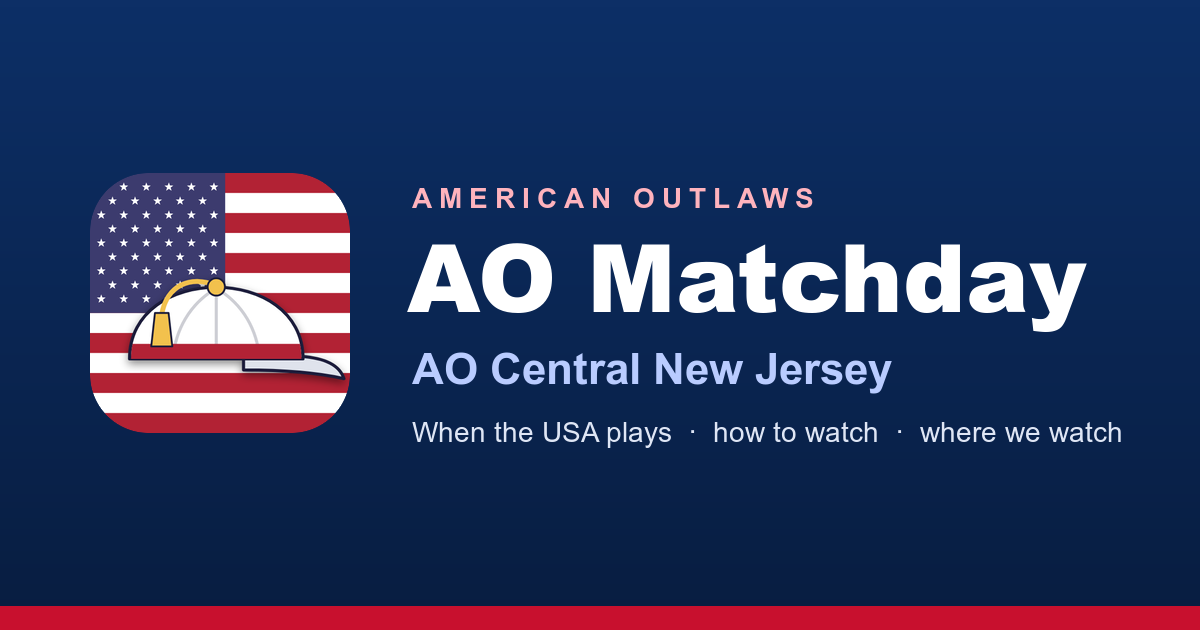
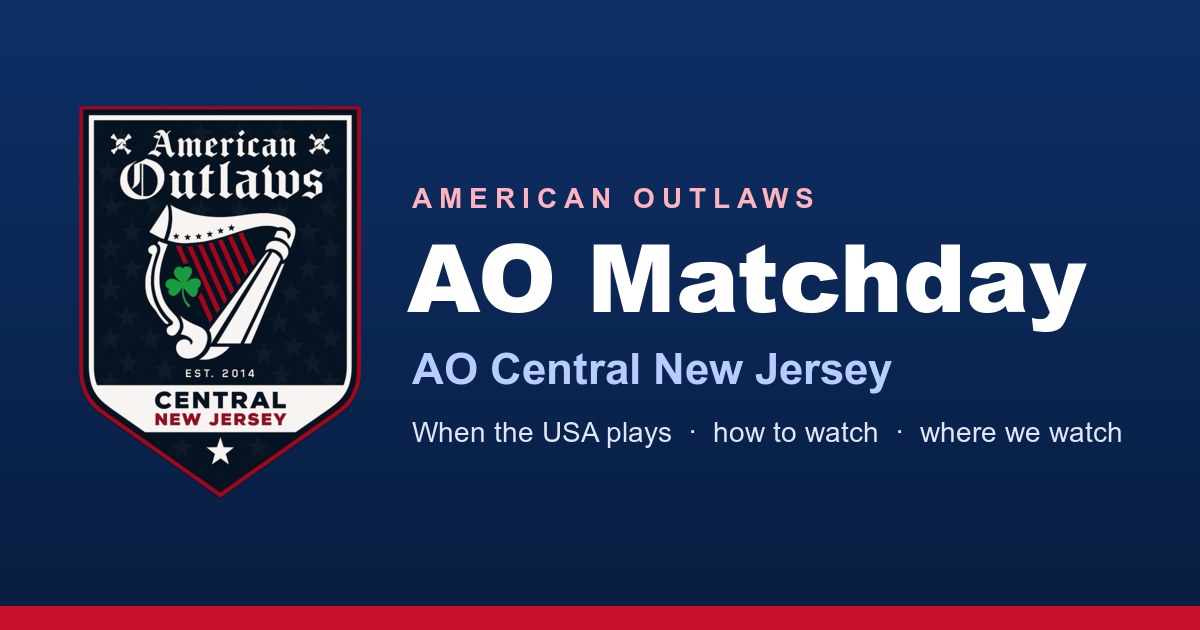
AO Matchday: the chapter's harp crest is the app's picture
The chapter's president asked for AO Central New Jersey's own crest to be
the app's logo. It replaces Cap Day's cap as the home-screen icon, the
browser-tab icon and the picture shown when the link is shared.

- New files: ao-icon-192.png, ao-icon-512.png, ao-touch-icon.png, and
  ao-icon-maskable.png (the crest smaller on its navy square, so Android
  can cut it to a circle without clipping it).
- ao-og.png: the same share picture with the crest where the cap was.
- ao.html (through build-ao.mjs), worldcup.html, privacy.html and
  ao-sign.html use the new icons; so does the World Cup kickoff notice.
- Service worker cache v12, with the new icons kept for offline use.
- Cap Day's own pictures stay with index.html.
- A test reads the icon files' pixels: right sizes, navy to the corners,
  no see-through parts, and the Android icon's crest inside the circle.
- Starts 0.3.0-pre.

Changed region(s): [[0.0617, 0.1508, 0.3083, 0.7841]]

diff --git a/worldcup.html b/worldcup.html
@@ -12,7 +12,8 @@
 <meta name="apple-mobile-web-app-capable" content="yes">
 <meta name="apple-mobile-web-app-status-bar-style" content="default">
 <meta name="apple-mobile-web-app-title" content="AO Matchday">
-<link rel="apple-touch-icon" href="apple-touch-icon.png">
+<link rel="icon" href="ao-icon-192.png">
+<link rel="apple-touch-icon" href="ao-touch-icon.png">
 <!-- Search + social share preview -->
 <meta name="description" content="The FIFA World Cup, men's and women's — the complete 2026 tournament preserved in full (every match, scorer, card and shootout), FIFA world rankings kept current, and every World Cup since 1930.">
 <meta property="og:type" content="website">
@@ -3996,7 +3997,7 @@ function armKickReminder(){
       const g=matchTeamsStr(nx.m),f=fmtInstant(nx.ts);
       new Notification("⚽ Kickoff in 15 minutes",{
         body:g+" — "+f.time+" "+f.tz+" · "+roundLabel(nx.m.r)+" · "+String(nx.s.city).split(",")[0],
-        tag:"kick-"+nx.ts, icon:"apple-touch-icon.png"
+        tag:"kick-"+nx.ts, icon:"ao-touch-icon.png"
       });
     }catch(e){}
     armKickReminder();                       // chain to the following fixture

diff --git a/sw.js b/sw.js
@@ -4,8 +4,8 @@
    last-cached app shell. Live score APIs (ESPN) are cross-origin
    and are never intercepted or cached — they always go straight to the network
    and degrade gracefully on their own when offline. */
-const CACHE = "wc2026-v11";
-const SHELL = ["./", "./index.html", "./js/core.js", "./js/facts.js", "./js/qr.js", "./ao.html", "./js/ao.js", "./ao.webmanifest", "./ao-qr.svg", "./worldcup.html", "./manifest.webmanifest", "./apple-touch-icon.png", "./icon-192.png", "./qr.svg"];
+const CACHE = "wc2026-v12";
+const SHELL = ["./", "./index.html", "./js/core.js", "./js/facts.js", "./js/qr.js", "./ao.html", "./js/ao.js", "./ao.webmanifest", "./ao-qr.svg", "./worldcup.html", "./manifest.webmanifest", "./apple-touch-icon.png", "./icon-192.png", "./ao-touch-icon.png", "./ao-icon-192.png", "./qr.svg"];
 
 self.addEventListener("install", function (e) {
   self.skipWaiting(); // activate this version immediately

diff --git a/ao.html b/ao.html
@@ -22,8 +22,8 @@
 <meta name="mobile-web-app-capable" content="yes">
 <meta name="apple-mobile-web-app-capable" content="yes">
 <meta name="apple-mobile-web-app-title" content="AO Matchday">
-<link rel="icon" href="icon-192.png">
-<link rel="apple-touch-icon" href="apple-touch-icon.png">
+<link rel="icon" href="ao-icon-192.png">
+<link rel="apple-touch-icon" href="ao-touch-icon.png">
 <script>
 /* Same theme preference as the World Cup app: saved choice, else the system's. */
 (function(){try{var p=JSON.parse(localStorage.getItem("wc2026.prefs.v1")||"{}");var t=p.theme;

diff --git a/js/core.js b/js/core.js
@@ -8,7 +8,7 @@
 /* The app's version. This line is the only place the number lives: the footer,
    the anonymous error reports and the release check all read it from here.
    "-pre" means "on the way to that version, not released yet". See CHANGELOG.md. */
-const VERSION = "0.2.0";
+const VERSION = "0.3.0-pre";
 
 /* W / D / L from one side's point of view; a level score with a shootout goes to the shootout winner. */
 const outcome = (us, them, pen) => us > them ? "W" : us < them ? "L" : pen ? (pen[0] > pen[1] ? "W" : "L") : "D";

diff --git a/privacy.html b/privacy.html
@@ -5,7 +5,7 @@
 <meta name="viewport" content="width=device-width,initial-scale=1">
 <title>Privacy — AO Matchday</title>
 <meta name="description" content="What AO Matchday does and does not collect.">
-<link rel="icon" href="icon-192.png">
+<link rel="icon" href="ao-icon-192.png">
 <style>
 body{font-family:-apple-system,BlinkMacSystemFont,'Segoe UI',sans-serif;background:#f5f5f7;color:#1a1a1a;margin:0;padding:24px 18px;line-height:1.55}
 main{max-width:680px;margin:0 auto}

diff --git a/ao-sign.html b/ao-sign.html
@@ -5,7 +5,7 @@
 <meta name="viewport" content="width=device-width, initial-scale=1">
 <meta name="robots" content="noindex,nofollow">
 <title>AO Matchday — a sign for the bar</title>
-<link rel="icon" href="icon-192.png">
+<link rel="icon" href="ao-icon-192.png">
 <style>
 /* One printed page (US Letter or A4) to put up where the chapter watches. */
 *{box-sizing:border-box;margin:0;padding:0}

diff --git a/README.md b/README.md
@@ -28,12 +28,14 @@ The schedule, squads and club form are built by [`scripts/build-usa.mjs`](script
 
 **AO Matchday** ([`ao.html`](ao.html)) is the page people use. It is generated from `index.html` by [`scripts/build-ao.mjs`](scripts/build-ao.mjs) (the tests fail when it is behind), with two cards of its own from [`js/ao.js`](js/ao.js): where each chapter is watching the next match, and a chapter finder. The chapters and watch parties in `data/ao/chapters.json` are read from theamericanoutlaws.com by [`scripts/build-ao-chapters.mjs`](scripts/build-ao-chapters.mjs), twice a day, by the [`ao-chapters`](.github/workflows/ao-chapters.yml) Action. Like the other data scripts it will not replace a good file with a thin one. The same script writes a calendar feed for each chapter (`data/ao/cal/<chapter>.ics`) with the bar as each event's location, and [`ao-sign.html`](ao-sign.html) is a printable sign with the page's QR code (`?chapter=<slug>` gives any chapter its own, as `ao.html?chapter=<slug>` opens the app on that chapter). A chapter's leaders can write notes for the watch party card and a songbook in a Google Sheet: [`scripts/build-ao-notes.mjs`](scripts/build-ao-notes.mjs) copies it into `data/ao/notes.json` about every 20 minutes (the [`ao-notes`](.github/workflows/ao-notes.yml) Action; the sheet's id is the `AO_SHEETS` secret), as plain text only.
 
+**The app's picture** is AO Central New Jersey's own crest (the harp), sent by the chapter's president to be used for the app: `ao-icon-192.png`, `ao-icon-512.png`, `ao-icon-maskable.png` (smaller on its navy square, so Android can cut it to a circle), `ao-touch-icon.png` for iPhones, and the share picture `ao-og.png`. American Outlaws national's logo is not used. Cap Day's own pictures (`icon-*.png`, `apple-touch-icon.png`, `og-image.png`) stay with `index.html`.
+
 ## Engineering
 
 - **Core logic is separate and tested.** [`js/core.js`](js/core.js) holds the pure match logic (feed parsing, competition and match explanations, prediction grading, win expectancy). The page loads it as a plain script; the tests load it with `require()`.
 - **The "Did you know?" facts are a plain list.** [`js/facts.js`](js/facts.js) holds them, each marked as one for newcomers or a deep cut, with the rules for adding one at the top of the file. A fact that a future result could change carries an `until` date and drops out of the app after it, until someone checks it and moves the date. `factOrder` in `js/core.js` decides the order: the next opponent's facts first, then a fresh mix each day.
 - **Looking at it:** the tests measure layout but cannot see ugliness. [`test/helpers/look.html`](test/helpers/look.html) opens one section of the app at phone width so a picture can be taken of it (headless Chrome, `--screenshot`); look at a new section in a picture, in both themes and at 320px, before publishing it.
-- **Tests:** `node --test` (256 tests, no dependencies, about ten seconds).
+- **Tests:** `node --test` (257 tests, no dependencies, about ten seconds).
   - [`test/core.test.cjs`](test/core.test.cjs): the logic against real recorded feed data in `test/fixtures/`.
   - [`test/render.test.cjs`](test/render.test.cjs): what each section puts on screen in every state — before kickoff, live, connection lost, full time, second leg, friendly, no match scheduled, women's view, test mode — plus the prediction flow, the feedback poll, escaping of feed text, and one section failing without taking the others down. The page's own code runs in a sandbox with a stand-in document, a fixed clock and recorded data ([`test/helpers/page.cjs`](test/helpers/page.cjs)).
   - [`test/browser.test.cjs`](test/browser.test.cjs): the whole app in headless Chrome, served locally — it boots, every section fills in, old links redirect. Skipped where no Chrome is installed.

diff --git a/CHANGELOG.md b/CHANGELOG.md
@@ -11,6 +11,10 @@ How the numbers work, for a version like 0.1.2:
 
 Schedules, squads, scores and rankings refresh on their own all day. Those are content updates, not new versions, and are not listed here.
 
+## 0.3.0 — not yet released
+
+- **The chapter's crest is the app's picture.** AO Central New Jersey's harp crest now shows as the app's icon on a phone's home screen, in the browser tab, and in the picture that appears when the link is shared. If the app is already on your iPhone's home screen, remove it and add it again to get the new icon; Android changes it on its own within a few days.
+
 ## 0.2.0 — 2026-11-19
 
 - **Other international matches.** A new section with the latest or next matches in every active national-team tournament, the USA's own first, with live scores and each tournament's tables. It follows the Women / Men switch.
